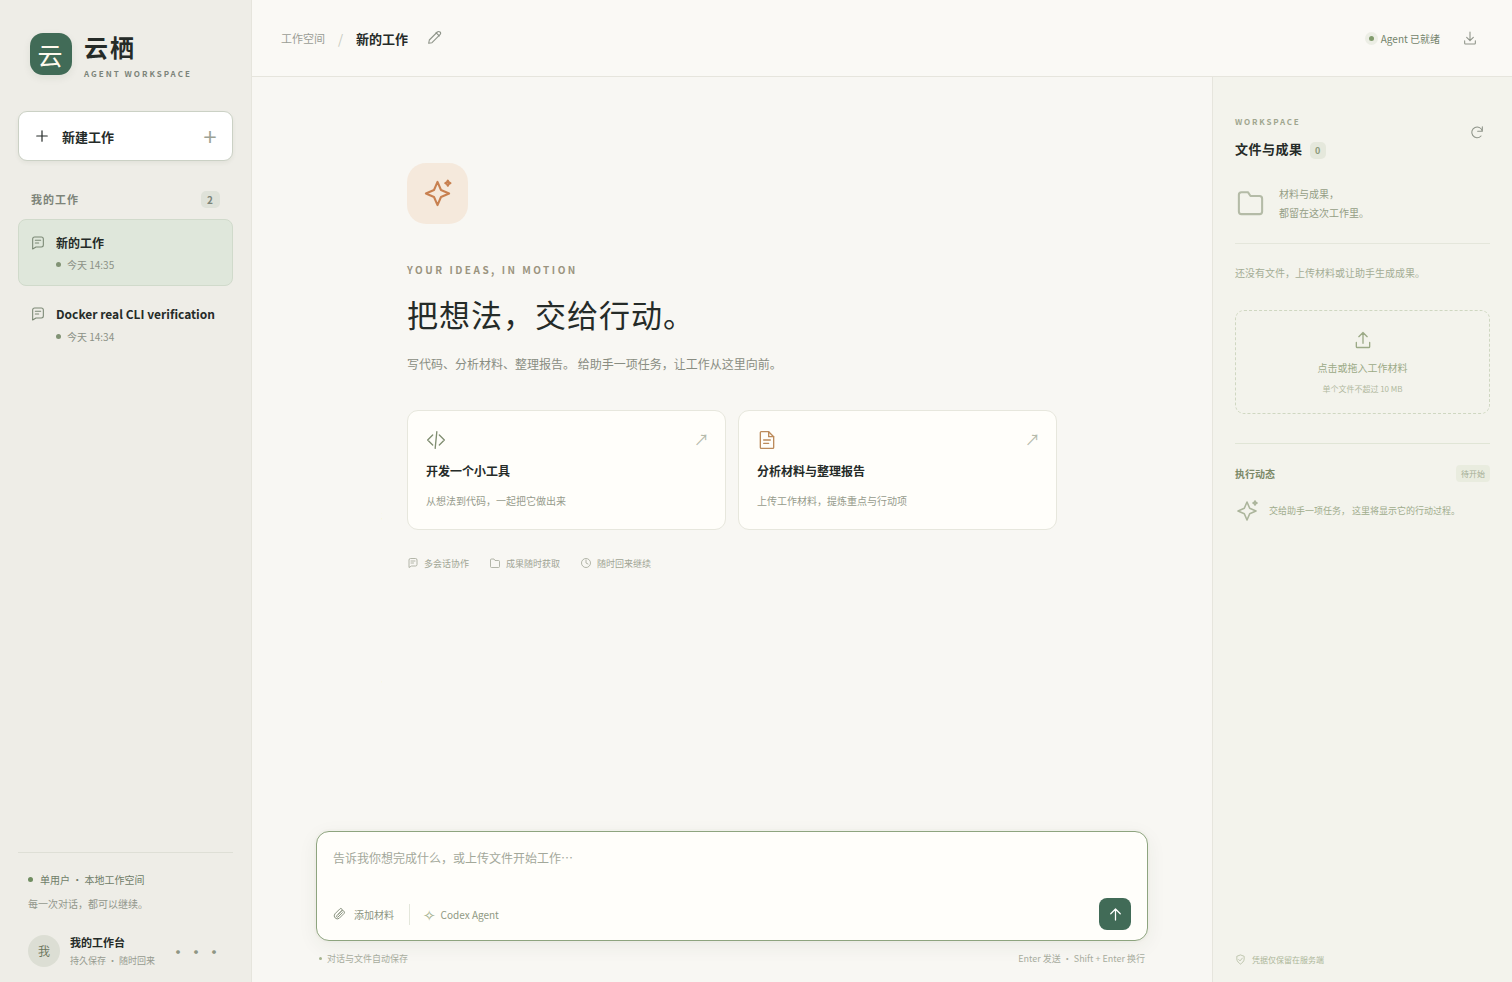
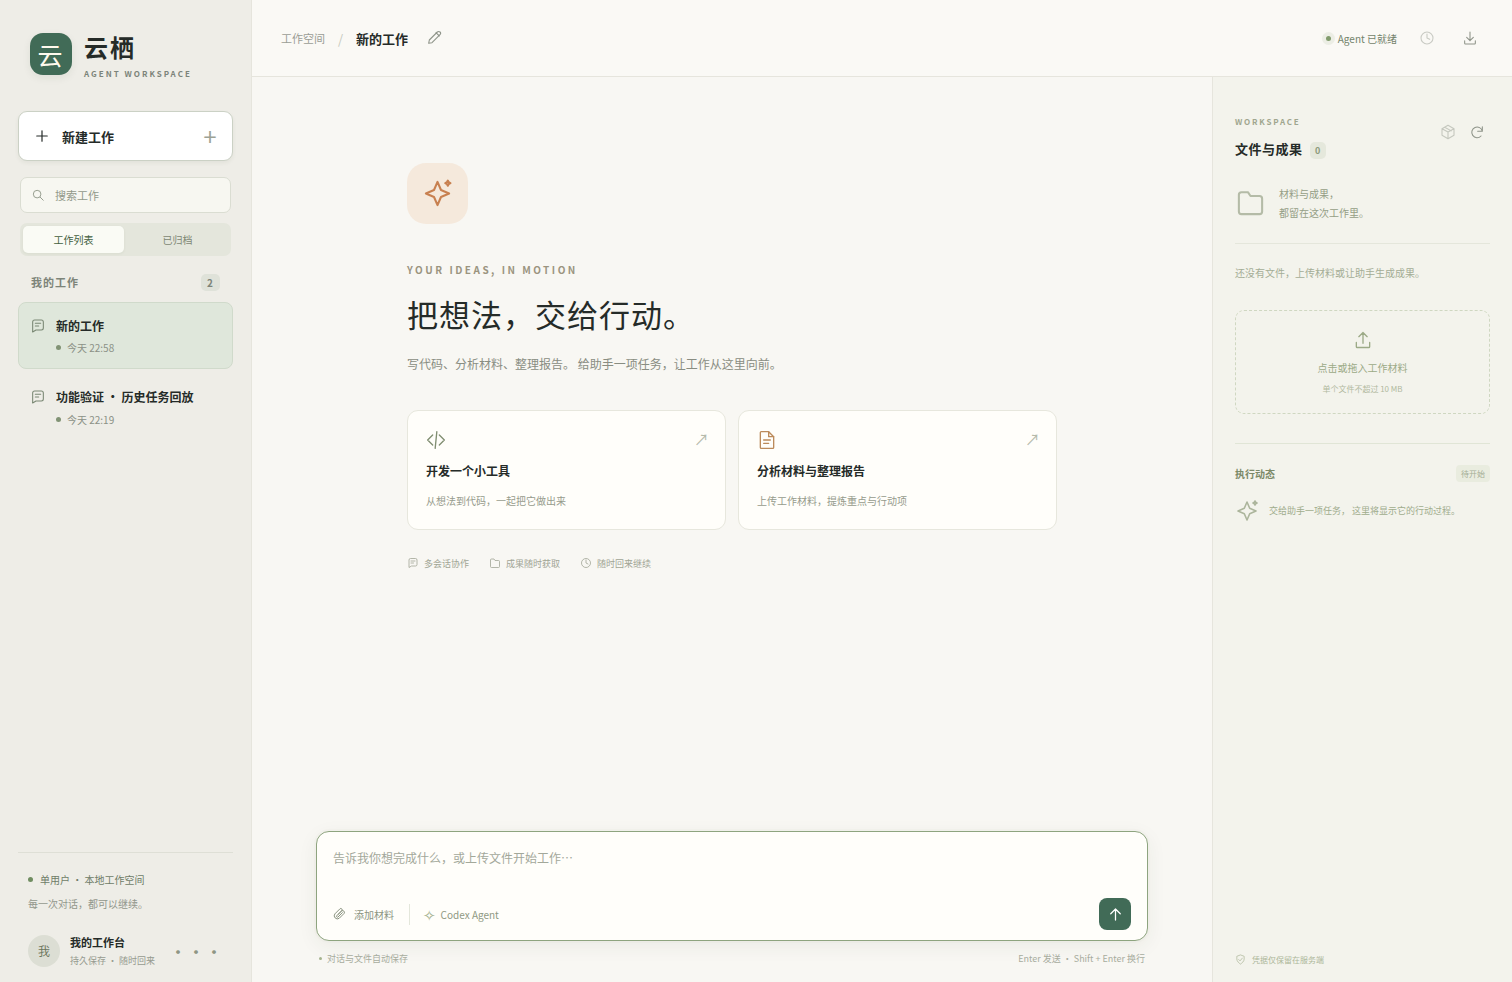
Publish verified enhancement screenshots and delivery notes [skip ci]

Changed region(s): [[0.0, 0.1833, 0.1554, 0.3666], [0.8704, 0.0305, 0.9636, 0.0611], [0.0311, 0.3971, 0.1243, 0.4277]]

diff --git a/evidence/README.md b/evidence/README.md
@@ -1,21 +1,22 @@
 # 实际运行证据
 
-本目录包含应用真实调用 Agent 后生成的结果。模型使用平台提供的 `linext-5.3-luna`，真实 CLI 为 `Codex 0.157.1`；临时凭据未包含在证据或源码中。时间均可在 JSON 的 ISO 时间戳中复核。
+本目录保留真实 Agent 任务成果，以及后续增强功能的确定性浏览器验证。真实任务使用平台提供的 `linext-5.3-luna` 和 `Codex 0.157.1`；增强功能检查使用这些已完成任务的离线快照，不调用模型。临时凭据未包含在证据或源码中。时间均可在 JSON 的 ISO 时间戳中复核。
 
 | 验收项 | 结果与证据 |
 | --- | --- |
-| Docker 构建、启动、真实 CLI | [最终成功验证](https://github.com/ssddxg/cloud-agent-workbench-exam-20261117/actions/runs/44104352812)，容器内完成上传、生成脚本、执行和续聊；详见 [docker-smoke.json](docker-smoke.json) |
+| Docker 构建、启动、真实 CLI | [基础 Agent 成功验证](https://github.com/ssddxg/cloud-agent-workbench-exam-20261117/actions/runs/44104352812)，容器内完成上传、生成脚本、执行和续聊；详见 [docker-smoke.json](docker-smoke.json) |
 | 代码开发与后续修改 | [代码任务完整消息及命令](code-task/session.json)，[实际工具源码](code-task/outputs/expense-summary.mjs)、[总额 280](code-task/outputs/result.json)、[交通过滤总额 50](code-task/outputs/transport-result.json) |
 | 日常工作与后续交流 | [材料任务完整消息及命令](daily-task/session.json)，[项目周报](daily-task/outputs/weekly-report.md)、[待办表](daily-task/outputs/action-items.csv)、[管理摘要](daily-task/outputs/executive-summary.md) |
 | 多会话、真实 resume | [verification.json](verification.json)：两个独立 CLI thread ID，每个会话两次 completed 执行；追加请求使用原 thread ID |
-| 浏览器操作与界面 | [browser-verification.json](browser-verification.json)：真实 Chrome 检查新建、重命名、上传、安全预览、下载、刷新恢复、多会话、手机布局及真实 CLI 成果可见；JavaScript 错误为 0 |
+| 真实任务浏览器界面 | [browser-live-verification.json](browser-live-verification.json)：基础版本的真实 Chrome 检查，包含真实 CLI 成果可见；对应上述基础 Agent 运行，原始成果截图予以保留 |
+| 增强功能与浏览器回归 | [本轮 Docker 与 Chrome 成功验证](https://github.com/ssddxg/cloud-agent-workbench-exam-20261117/actions/runs/44108687044)，[browser-verification.json](browser-verification.json)：新建、重命名、上传、安全预览、下载、刷新恢复、多会话、搜索、置顶持久化、归档只读及恢复、执行历史、Markdown 与 ZIP 导出、手机布局；JavaScript 错误为 0。本轮为离线历史快照回放，无新增模型执行 |
 | 状态恢复与异常 | 自动化测试覆盖停止、排队、服务重启中断、会话和文件持久化、SSE重放、路径/符号链接与错误脱敏。集成测试中的 fake CLI 仅用于确定性回归，与上述真实运行证据明确分开 |
 
-两类工作最初在现有 Windows 环境中并行执行（北京时间 2026-11-17 22:13–22:19），没有安装额外应用依赖。Docker 中首次真实运行于 22:24 完成，最终自动测试、容器与浏览器验证于 22:35 完成。服务重启后，这些会话、消息与文件仍保存在应用的 `data/` 持久目录；公开仓库中的 JSON 是允许复核的合成演示快照，不会被当作新用户的实时会话载入。CI 截图显示的是测试浏览器所在的 UTC 时间。
+两类工作最初在现有 Windows 环境中并行执行（北京时间 2026-11-17 22:13–22:19），没有安装额外应用依赖。Docker 中首次真实运行于 22:24 完成，基础自动测试、容器与浏览器验证于 22:35 完成。服务重启后，这些会话、消息与文件仍保存在应用的 `data/` 持久目录。公开仓库中的 JSON 是合成演示数据的可复核快照；正常启动不载入演示历史，CI 的 `prepare-browser-data.mjs` 仅为浏览器回归显式载入，并标为“历史任务回放”。保留的真实 CLI 截图（03、04）使用 UTC；本轮截图使用 Asia/Shanghai。
 
 ![真实 CLI 工作成果](screenshots/03-real-cli-result.png)
 
-其他截图：[初始界面](screenshots/01-workspace.png)、[材料预览](screenshots/02-material-preview.png)、[报告成果](screenshots/04-report-preview.png)、[手机布局](screenshots/05-mobile.png)。
+其他截图：[初始界面](screenshots/01-workspace.png)、[材料预览](screenshots/02-material-preview.png)、[报告成果](screenshots/04-report-preview.png)、[手机布局](screenshots/05-mobile.png)、[会话整理](screenshots/06-session-organization.png)、[执行历史](screenshots/07-execution-history.png)、[成果打包](screenshots/08-artifacts.png)。
 
 下载仓库后，可在不调用模型的情况下复核生成工具：
 

diff --git a/README.md b/README.md
@@ -6,7 +6,7 @@
 
 ![真实 Docker 应用界面](evidence/screenshots/03-real-cli-result.png)
 
-验证结果：**30 项自动测试通过**；[基础 Agent 流程的 Docker 构建、真实 CLI 执行及浏览器检查](https://github.com/ssddxg/cloud-agent-workbench-exam-20261117/actions/runs/44104352812)已通过。两类任务各自完成后续修改，费用工具实际结果为总额 **280**、交通过滤 **50**。运行记录、产物和截图见 [验证证据](evidence/README.md)。
+验证结果：**30 项自动测试通过**；[基础 Agent 流程的 Docker 构建、真实 CLI 执行及浏览器检查](https://github.com/ssddxg/cloud-agent-workbench-exam-20261117/actions/runs/44104352812)已通过。[增强功能的 Docker 与浏览器验证](https://github.com/ssddxg/cloud-agent-workbench-exam-20261117/actions/runs/44108687044)覆盖会话管理、执行历史和导出。两类任务各自完成后续修改，费用工具实际结果为总额 **280**、交通过滤 **50**。运行记录、产物和截图见 [验证证据](evidence/README.md)。
 
 后端和前端均无 npm 应用依赖。Agent 的命令执行、文件修改与对话恢复由 Codex CLI 完成，工作台负责会话、调度、持久化、浏览器交互和模型协议适配。应用并非仅调用模型后展示聊天文本。
 
@@ -106,7 +106,7 @@ npm test
 
 测试覆盖存储恢复、路径和链接防护、协议工具调用转换，以及 HTTP、CLI 进程生命周期、排队取消、SSE、恢复与错误脱敏。部分集成测试使用可控的测试 CLI；实际 CLI 联调由上述演示和 CI 中可选的真实 Agent smoke test 单独证明。
 
-仓库工作流会运行测试、构建实际 Docker 镜像、校验固定 CLI 版本并启动容器，再通过真实 Chrome 验证上传、预览、下载、刷新恢复和移动布局。配置仓库 secret `AGENT_API_KEY` 和 variables `AGENT_BASE_URL`、`AGENT_MODEL`、`AGENT_PROTOCOL` 后，在 Actions 中手动运行工作流还会执行 `demo/docker-smoke.js`，使用真实 Agent 并上传 `docker-verification` artifact。普通 push 不调用模型，避免重复消耗额度。构建步骤不接收模型密钥，真实 Agent 运行时才注入环境变量。浏览器测试依赖只在 CI 临时目录安装，不是应用运行依赖。
+仓库工作流会运行测试、构建实际 Docker 镜像、校验固定 CLI 版本并启动容器，再通过真实 Chrome 验证上传、预览、下载、刷新恢复、移动布局，以及搜索、置顶、归档恢复、执行历史、Markdown 导出和 ZIP 下载。增强功能检查载入此前真实任务的离线快照，不重复调用模型，也不将回放当作新的模型执行。配置仓库 secret `AGENT_API_KEY` 和 variables `AGENT_BASE_URL`、`AGENT_MODEL`、`AGENT_PROTOCOL` 后，在 Actions 中手动运行工作流还会执行 `demo/docker-smoke.js`，使用真实 Agent 并上传 `docker-verification` artifact。普通 push 不调用模型，避免重复消耗额度。构建步骤不接收模型密钥，真实 Agent 运行时才注入环境变量。浏览器测试依赖只在 CI 临时目录安装，不是应用运行依赖。
 
 ## 现有环境快速运行
 

diff --git a/demo/README.md b/demo/README.md
@@ -34,6 +34,12 @@
 
 验证重启恢复可执行 `docker compose restart`，重新打开页面。正在运行的任务会标记为中断，用户可继续交流，不会自动重做可能有副作用的命令。保留证据时请隐藏凭据与无关个人信息。
 
+## 会话整理与成果交付
+
+完成任务后，在侧栏搜索工作名称、置顶常用会话，再将暂时结束的工作归档。在“已归档”中检查消息和文件仍可查看、输入框处于只读状态；点击恢复后可继续交流。刷新页面确认置顶状态仍保留。
+
+打开顶部执行历史，切换前后两轮运行，检查命令、输出、耗时和 CLI 用量；下载 Markdown 对话便于交接。使用文件区的成果打包按钮下载 ZIP，解压后检查只包含 `outputs/` 中的成果。上述功能不需要新增模型请求。
+
 ## 自动重现与证据
 
 ```bash
